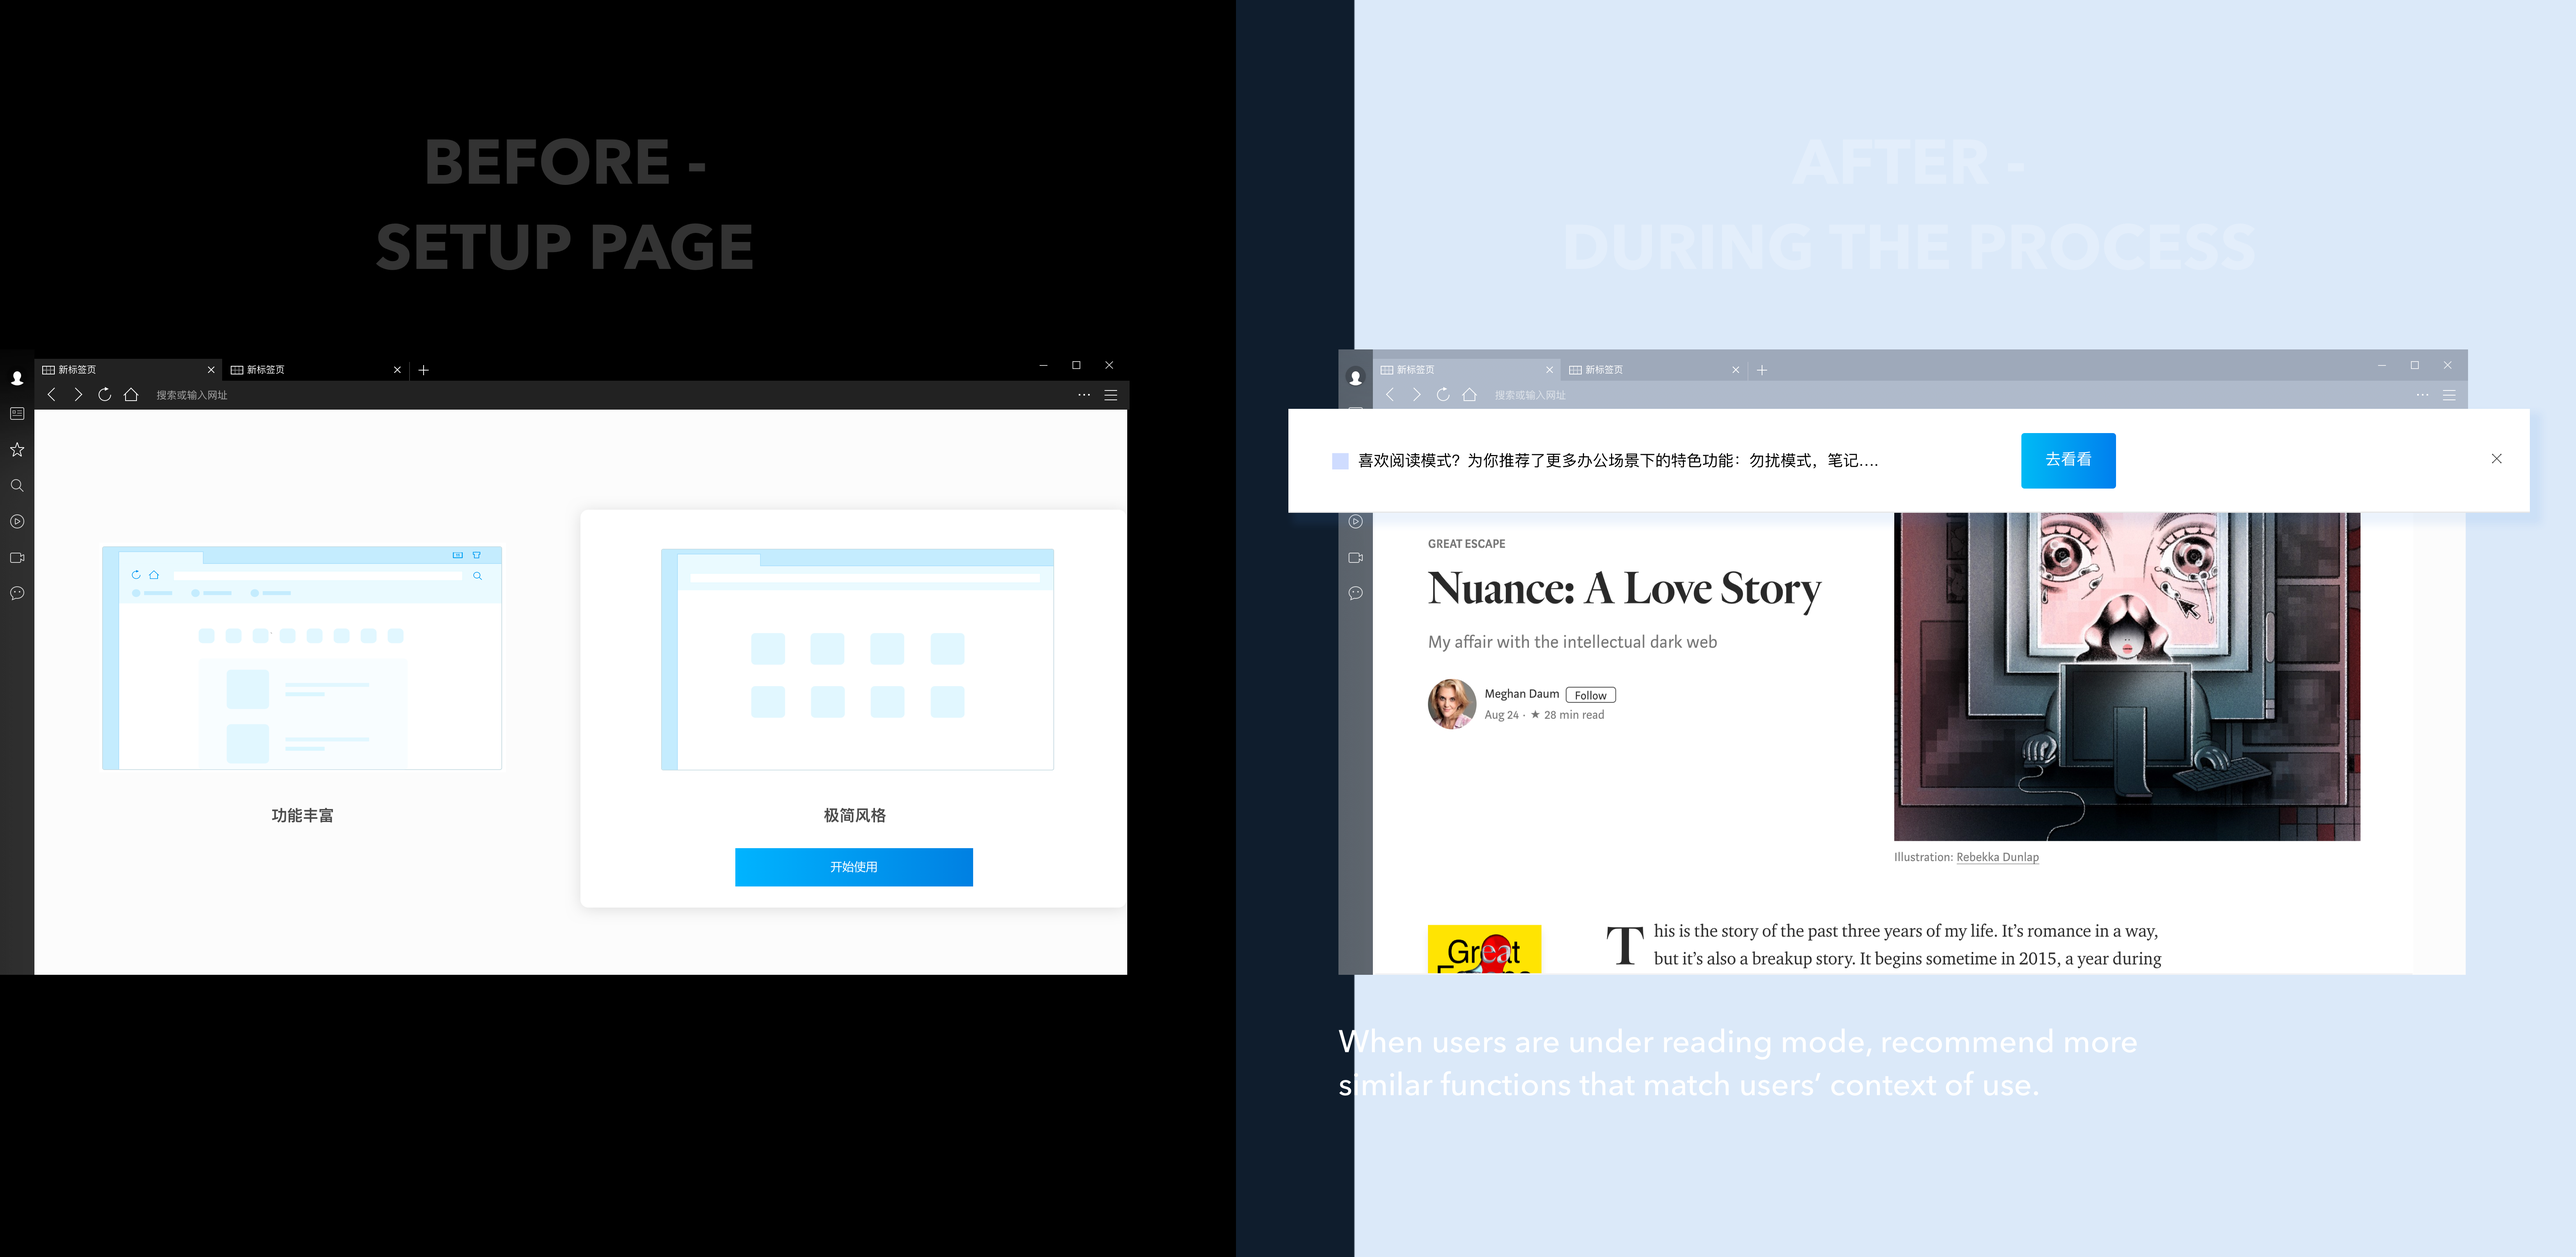
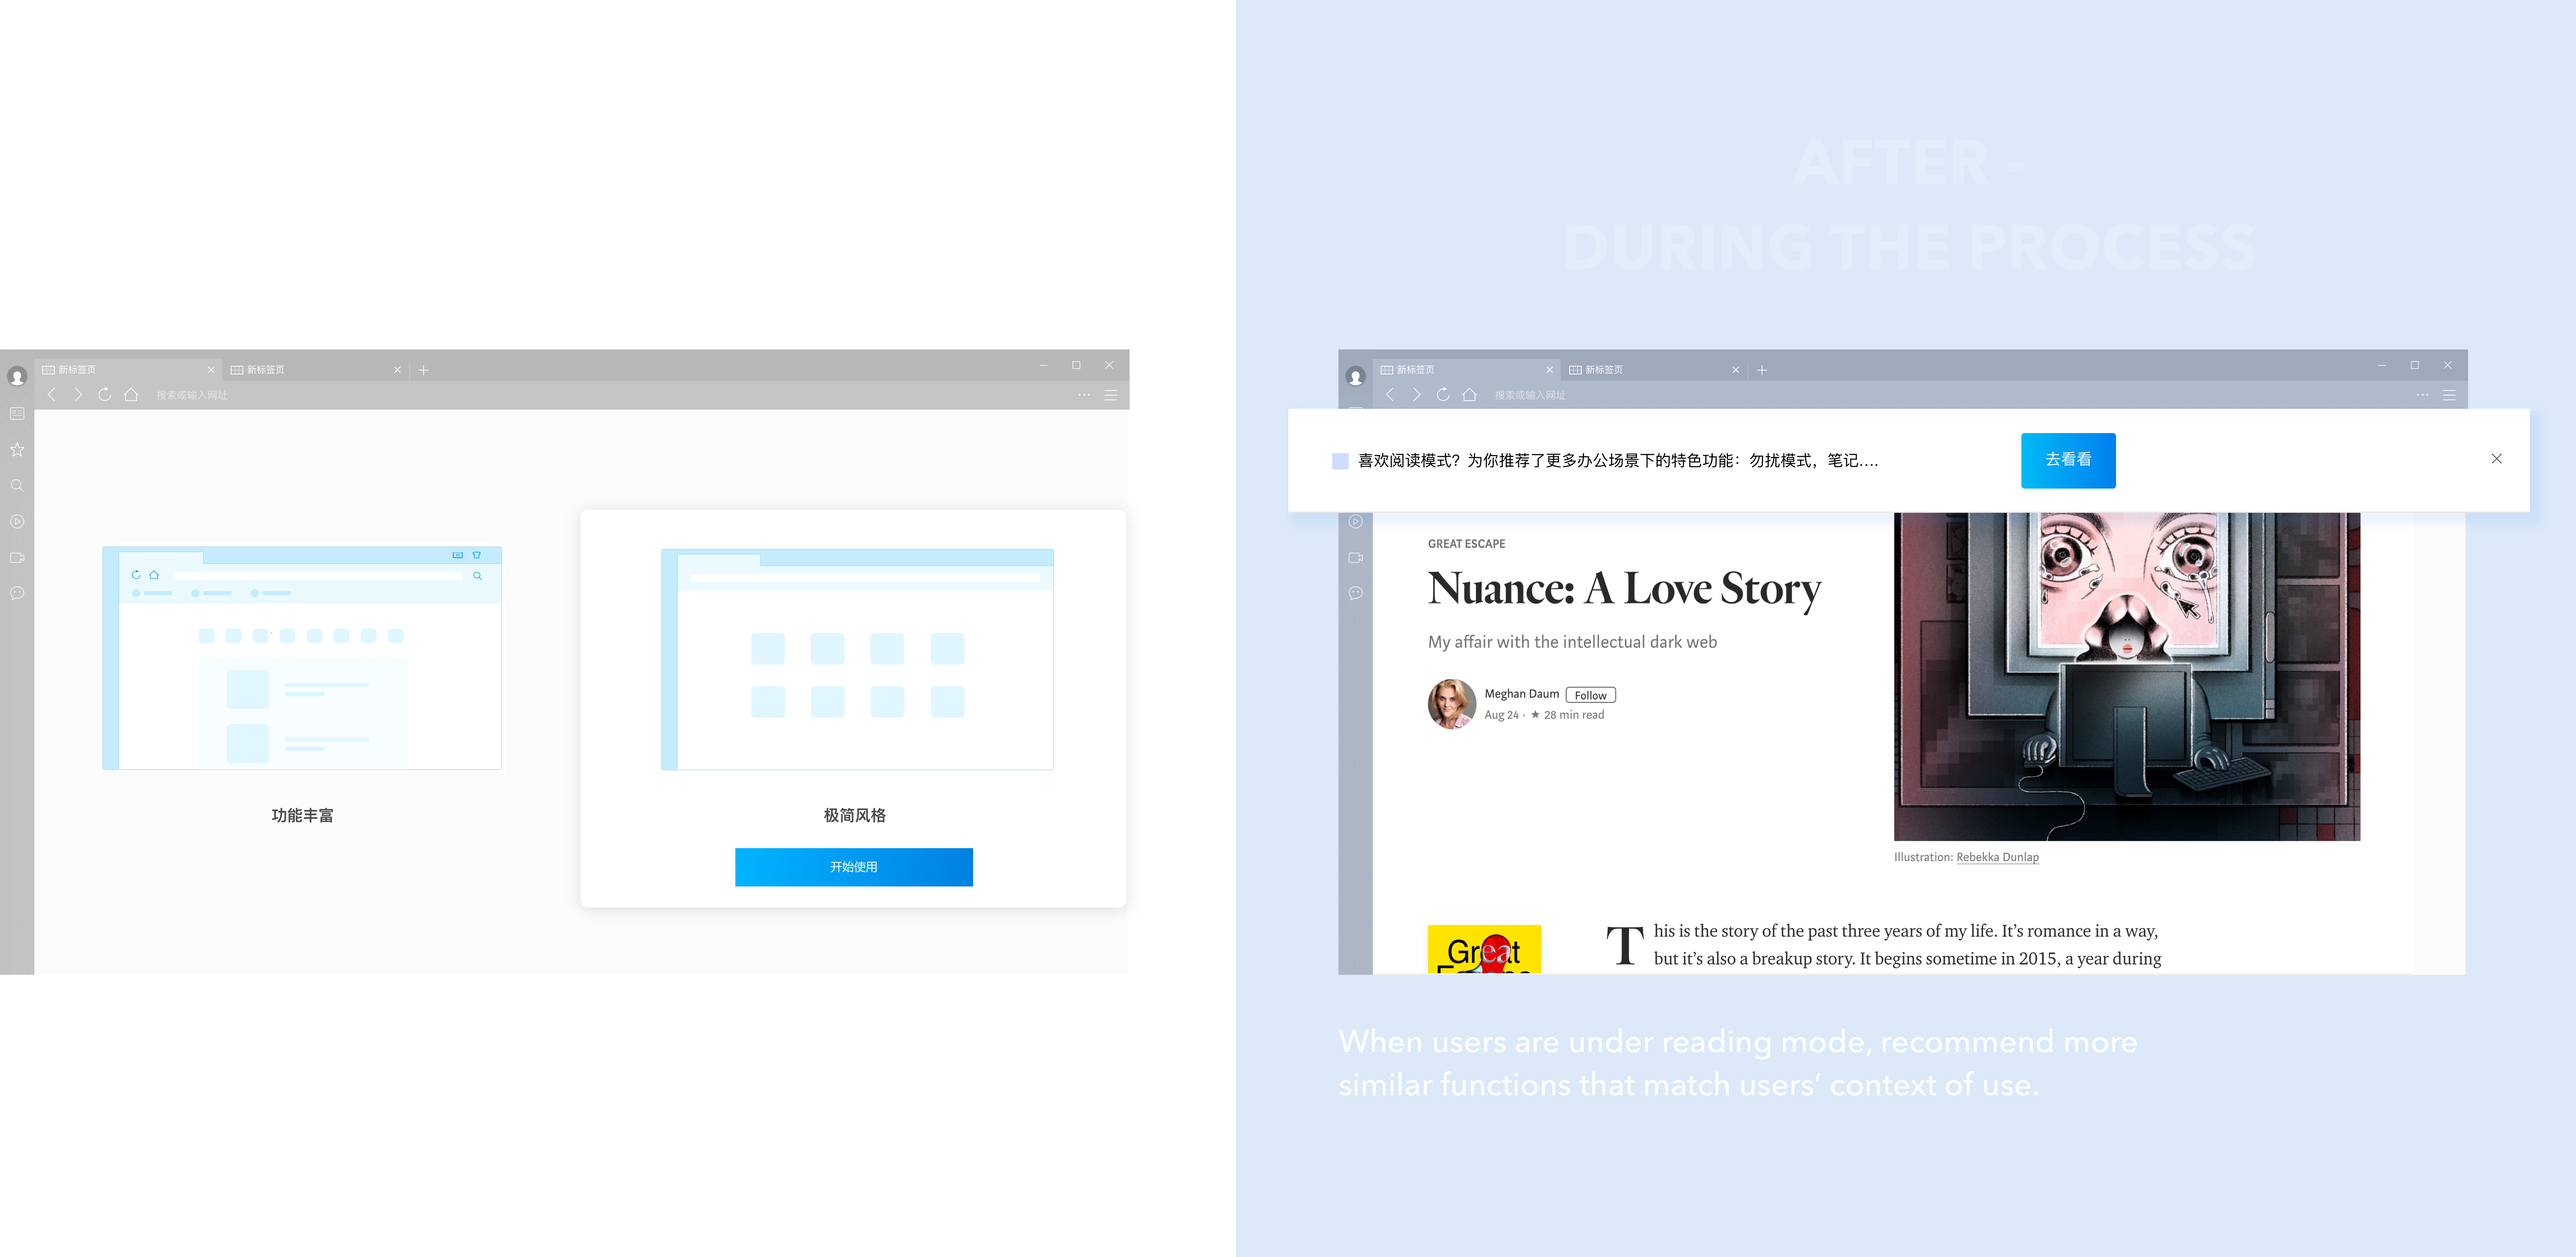
tencent update

diff --git a/Tencent.html b/Tencent.html
@@ -76,8 +76,8 @@
         </div>
         <div class="project-narrow-content" >
                 <h2 class="page-header">TENCENT INTERNSHIP</h2> 
-                <hr>
-                    <p class="project-desc">For my Tencent internship, I participated in 4 projects in total. Thanks my mentor for inviting me to join these exciting projects. I would like to share the details of the first project and also show other three projects' design in the "final design" session.</p>
+                <hr><br>
+                    <p class="project-desc">For my Tencent internship, I participated in 4 projects in total. (The timeline is shown below). Thanks my mentor for inviting me to join these exciting projects. I would like to share the details of the first project and also show other three projects' design in the "final design" session.</p><br>
                     <img style = "width:100%" src="assets/img/tencent/timeline.png"><br><br>
 
                 <div id="Overview">
@@ -107,7 +107,7 @@
                     <h3 class="overview_subtitle">CHALLENGE 1: TOO MUCH FUNCTIONS</h3><br><br>
                         <img style = "width:100%" src="assets/img/tencent/challenge1.png"><br><br>
                         
-                    <h3 class="overview_subtitle">SOLUTION 1: PERSONALIZE FUNCTION</h3>
+                    <h3 class="overview_subtitle">SOLUTION: PERSONALIZE FUNCTION</h3>
                         <p class="project-desc">A lot of products already provide personalizing news, feeds, or activities, but how about personalizing function? </p>
                         <p class="project-desc">This is why I initiated an idea of personalizing functions based on a user’s profile and context of use: </p><br>
                         <img style = "width:100%" src="assets/img/tencent/solution1.png"><br><br>
@@ -192,7 +192,7 @@
                         <p class="project-desc">Based on the feedback session, I got 2 main challenges for the do not disturb mode, so I refined the "do not disturb mode". In addition, we transferred 'minimalism mode' to 'AI + Function' to provide personalization of functions. Learn a users' preference as they use it more!</p><br><br>
                         <h4 class="mini-title">DO NOT DISTURB MODE</h4>
                         <p class="left-vertical-line margin-top-2">
-                            <span class="key-word">Refine 1 - Customize one time slot to two time slots</span>
+                            <span class="key-word">Refine 1 - Customize two time slots instead of one time slot</span>
                         </p>
                             <p class="project-desc">Normally for automatic mode switch, users need intermittent time slots (morning and afternoon) instead of one continuous time slot. (As users can still get notification during lunch time). But for the two time slots, if we provide complete customization, is it too much for users to start? How to balance between complete customization and easy interaction?</p><br><br>
                             <img style="width:100%" src="assets/img/tencent/refine1.png" data-action="zoom"><br><br><br><br>
@@ -212,7 +212,7 @@
 
 
                         <p class="left-vertical-line margin-top-2">
-                            <span class="key-word">Refine 4 - Start point of recommendation</span>
+                            <span class="key-word">Refine 4 - Start from where?</span>
                         </p>
                             <p class="project-desc">Right now users customize functions at the setup page. But users normally will close the setup page. Can we consider to recommend functions when users using it?</p><br><br>
                             <img style="width:100%" src="assets/img/tencent/refine4.png" data-action="zoom"><br><br><br><br>
@@ -286,23 +286,23 @@
                     <p class="left-vertical-line margin-top-2">
                         <span class="key-word">Balancing between business needs and users’ needs</span>
                     </p>
-                    <p class="project-desc">User-centered design. It’s true, but in real-world we need balance with business needs. Such as from users’ needs, providing less functionalities can simplify workload and enhance efficiency. But more functionalities can increase user retention from business target. How to solve this conflict? This is where UX designer is needed to solve the problem and come up with new ideas! With keeping in mind both users’ needs and business target constraints.</p>
+                    <p class="project-desc">User-centered design. It’s true, but in real-world we need to balance with business needs. Such as from users’ needs, providing less functions can simplify workload and enhance efficiency. But more functions can increase user retention from business target. How to solve this conflict? This is where UX designer is needed to solve the problem and come up with new ideas! With keeping in mind both users’ needs and business target constraints.</p>
 
                     <p class="left-vertical-line margin-top-2">
                         <span class="key-word">Incorporate implementation cost and design values into consideration</span>
                     </p>
-                    <p class="project-desc">Thinking of implementation effort is already a natural process during my design process, but what’s more, good designer should try to simplify solution as much as possible, especially under constraints like time or implementation costs. For example, when I redesigned game center, considering the ddl for rapid releasing, instead of incorporating something new at first version, it’s better to optimize whole flow but use current widgets which is easier to implement. And then the expected widgets can also present PM for next version’s design.</p>
+                    <p class="project-desc">Considering implementation effort is already a natural process during my design process, but what’s more, good designer should try to simplify solution as much as possible, especially under constraints like time or implementation costs. For example, when I redesigned game center, considering the ddl for rapid releasing, instead of incorporating something new at the first version, it’s better to optimize whole flow but use existing widgets at first. And then I also presented the expected widgets to PM for next version’s design.</p>
 
                 <h3 class="overview_subtitle">Facilitate Process with Communication</h3>
                     <p class="left-vertical-line margin-top-2">
                         <span class="key-word">Closer cooperation with PM</span>
                     </p>
-                    <p class="project-desc">Especially when coming up with new ideas, closer cooperate with PM to make sure if the problem exists and suitable for target user group. This step is crucial to make sure everyone in the team is on the same page.</p>
+                    <p class="project-desc">Especially when coming up with new ideas, closer cooperate with PM to make sure if the problem exists and is suitable for the target user group. This step is crucial to make sure everyone in the team are on the same page.</p>
 
                     <p class="left-vertical-line margin-top-2">
-                        <span class="key-word">Asking about feedback can greatly facilitate whole process</span>
+                        <span class="key-word">Asking about feedback can greatly facilitate the whole process</span>
                     </p>
-                    <p class="project-desc">Whenever stuck by multiple designs, not just list pros and cons and try to figure out by individually. It’s better to draw different designs to get others’ feedback or use AB testing to get users’ feedback, which will greatly facilitate iteration process.</p>
+                    <p class="project-desc">Whenever stucked by multiple designs, don't just list pros and cons and try to select one out individually. It’s better to draw different alternatives to get others’ feedback or use A / B testing to get users’ feedback. It will greatly facilitate the iteration process.</p>
 
                 <h3 class="overview_subtitle">What I’m good at:</h3>
                     <p class="left-vertical-line margin-top-2">
@@ -313,7 +313,7 @@
                     <p class="left-vertical-line margin-top-2">
                         <span class="key-word">My strength in technology</span>
                     </p>
-                    <p class="project-desc">I really appreciate the opportunity to share my knowledge of AI technologies with others. During my internship, I wrote an article “A designer’s guide to machine learning” and conducted a tech talk for design team about ML products, which to some extent enhance our team even whole Tencent MXD’s understanding and interest in machine learning. Moreover, after this internship, I have more passion for AI products and cannot wait to use my understanding of constraints and ability of technologies to create great user experience products!</p>
+                    <p class="project-desc">I really appreciate the opportunity to share my knowledge of AI technologies with others. During my internship, I wrote an article “A designer’s guide to machine learning” and conducted a tech talk for design team about machine learning products, which to some extent enhance a little bit of other designers' understanding and interests in machine learning. Moreover, after this internship, I have more passion for AI products and cannot wait to use my understanding of technologies to create AI products with great user experience!</p>
 
             </div>
 
